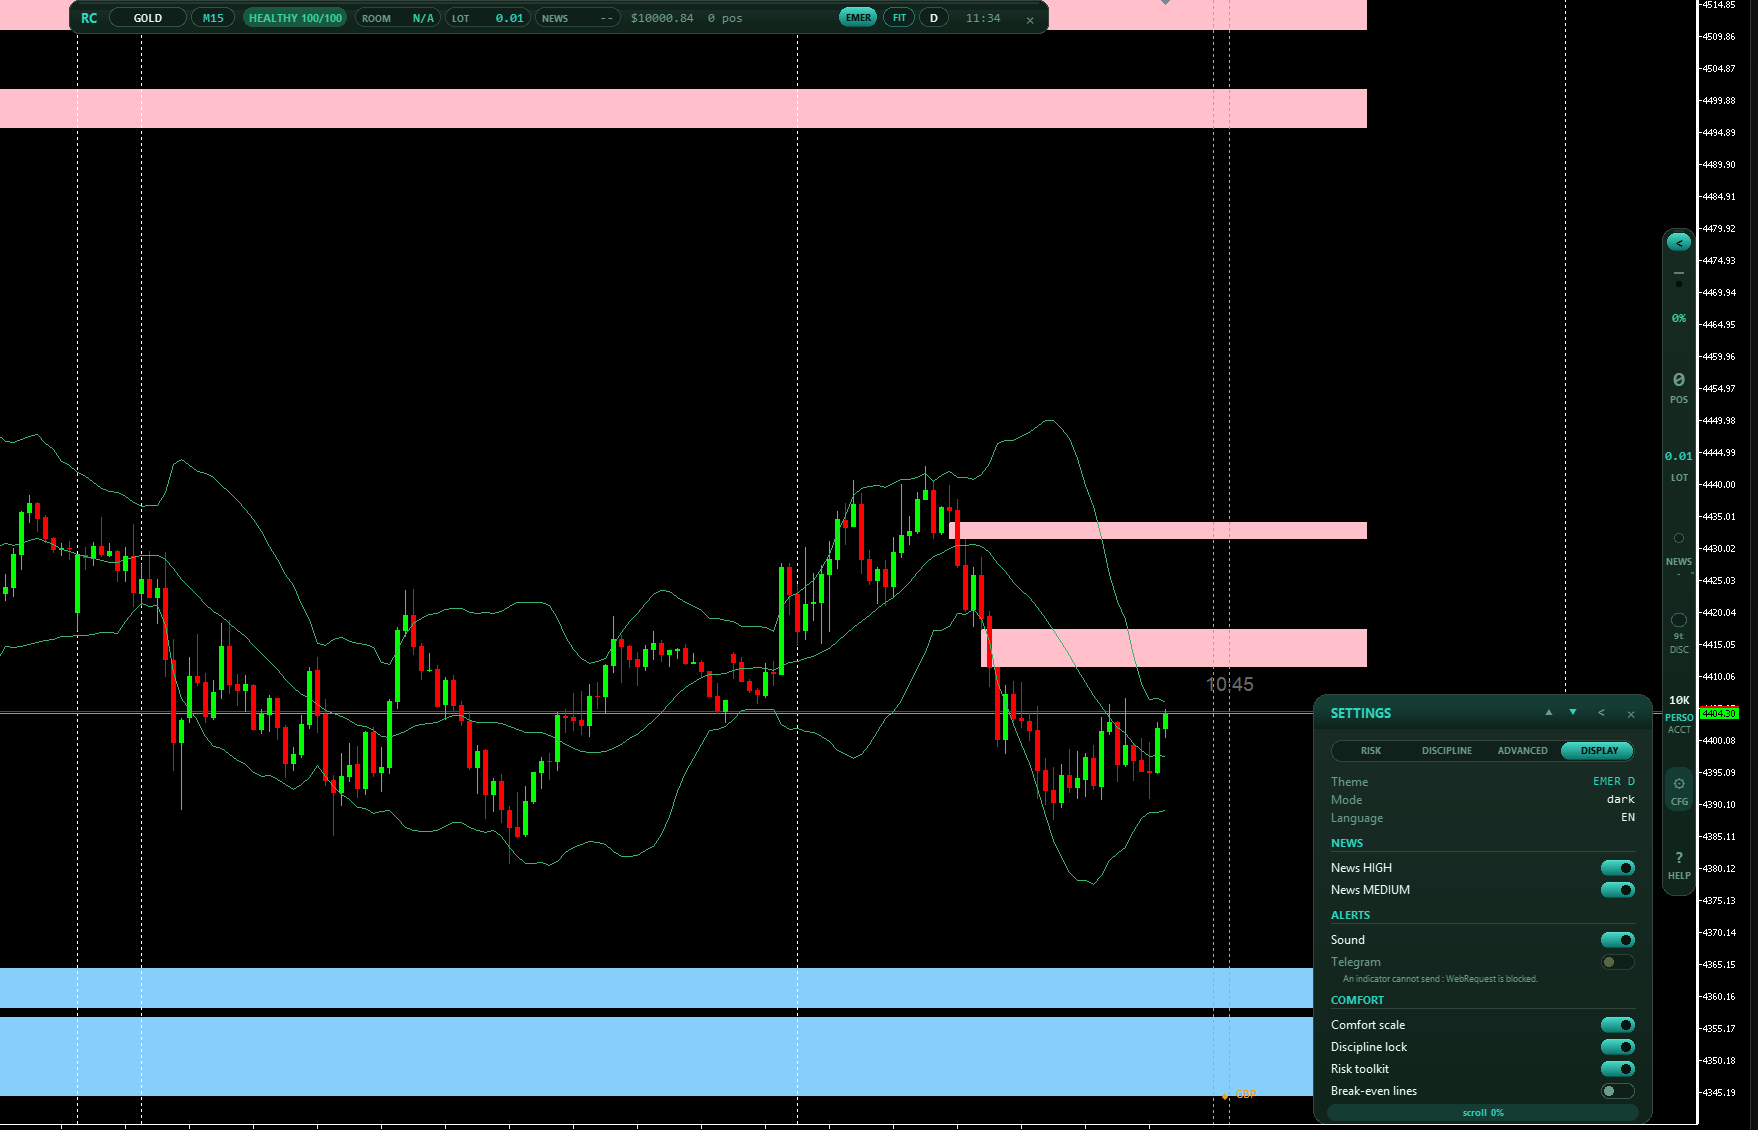
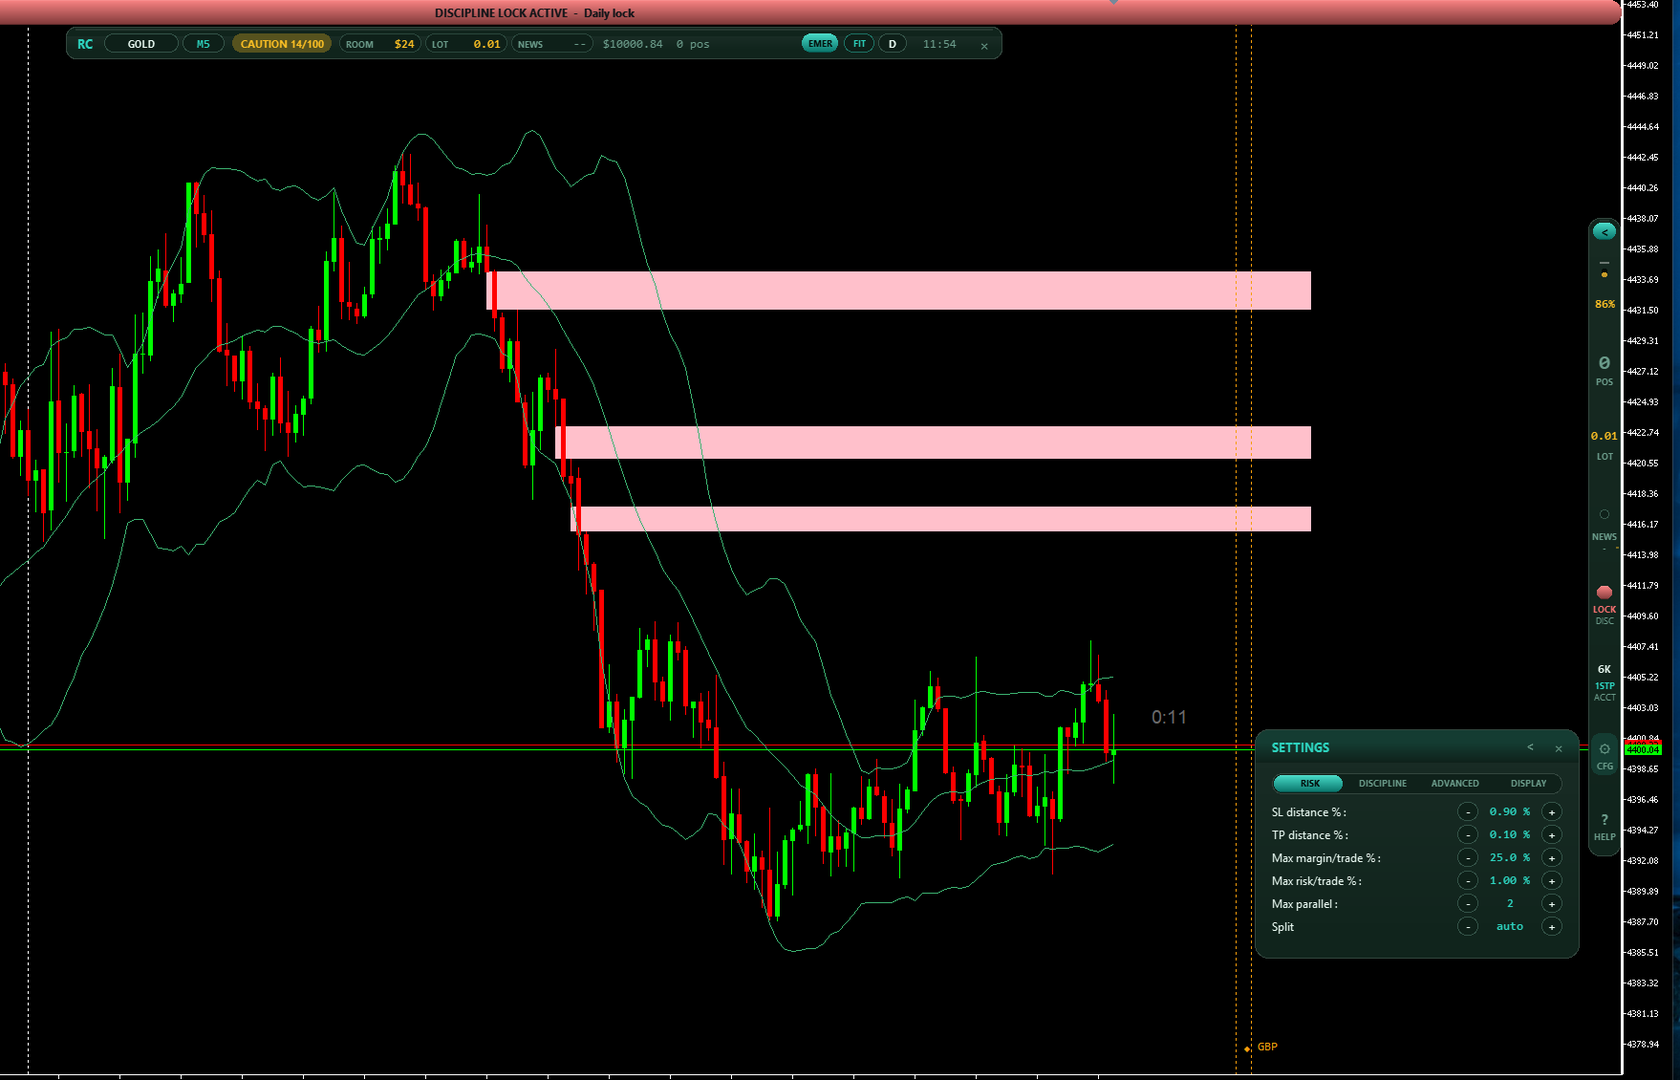
v3.62 : le verrou gelait le reglage qui le CAUSE - trouve en le vivant
En preparant les captures, j'ai bascule le profil de "Personnel" a "Stellar
1-Step 6K". Sur un profil a 6 000 $, la perte deja realisee de la journee
fait 86 % du plafond journalier : le verrou journalier s'arme, exactement
comme prevu. Et a partir de la, la cascade de profil est REFUSEE - donc le
reglage ne peut plus etre corrige. Enferme dans une configuration fausse
par une regle que cette configuration venait de creer.

Le verrou est CONSULTATIF : l'indicateur n'a aucune fonction de trading et
ne bloque aucun ordre. Geler la cascade n'empeche donc rien de reel - le
trader peut toujours prendre le trade. Ce que ca empeche, c'est que le
panneau dise la verite sur le programme du compte. La DECLARATION du
programme ne doit pas etre verrouillee par la regle qu'elle definit.

Restent geles, et c'est voulu : les steppers (ils desserrent les reglages
de risque COURANTS), les add-ons, les bascules de configuration, les deux
cases de violation, l'auto-verrou, et la croix qui retire l'outil.

Aussi dans ce commit : les dix captures de la fiche Market (interface en
ANGLAIS, 1680x1080, aux specs) et la video montee avec sa piste
synthetisee. Le numero de compte visible dans la section COMPTE est masque
a la main - le controle de fuite du gate ne lit QUE les fichiers texte,
une image passe au travers.

Gate 22/22, compilation 0 erreur 0 avertissement.

Changed region(s): [[0.0, 0.0, 1.0, 1.0], [0.9286, 0.55, 0.9595, 0.5806]]

diff --git a/tools/build-market-video.py b/tools/build-market-video.py
@@ -125,11 +125,11 @@ SHOTS = [
     (shot('03-lot-advisor.png', 'LOT ADVISOR',
           'A lot size capped so that a losing trade cannot take the account past a limit.'), 5.5),
     (shot('04-news.png', 'NEWS WINDOWS',
-          'The countdown to the next binding event, and the share of profit your program keeps.'), 5.0),
+          'Upcoming events in the next 24 hours, and whether your programme puts a rule on that window.'), 5.0),
     (shot('05-discipline.png', 'DISCIPLINE',
           'A self-lock you can arm and release, a hard lock at 80% of the daily cap, a cooldown after losses.'), 5.5),
     (shot('06-account-profile.png', 'PROGRAM',
-          'Change the profile and every limit on screen follows it.'), 4.5),
+          'Pick your programme, its phase and its size. Every limit on screen is derived from it.'), 4.5),
     (shot('08-built-in-manual.png', 'BUILT-IN MANUAL',
           'The help section is the documentation: a usage guide, then every element explained.'), 5.0),
     (card('It measures. You decide.', 'No order sent.  No signal.  No claim about profitability.',

diff --git a/tools/prep_screens.py b/tools/prep_screens.py
@@ -83,7 +83,7 @@ def main() -> int:
     for f in fichiers:
         print("  " + traite(os.path.join(DOSSIER, f)))
     print("\n⚠ Verification qui reste A L'OEIL : le texte doit etre en ANGLAIS.")
-    print("   Les scripts « SB_* » sont les copies internes et sont en FRANCAIS.")
+    print("   RiskCockpit retient la langue PAR COMPTE : la basculer AVANT la seance.")
     return 0
 
 
